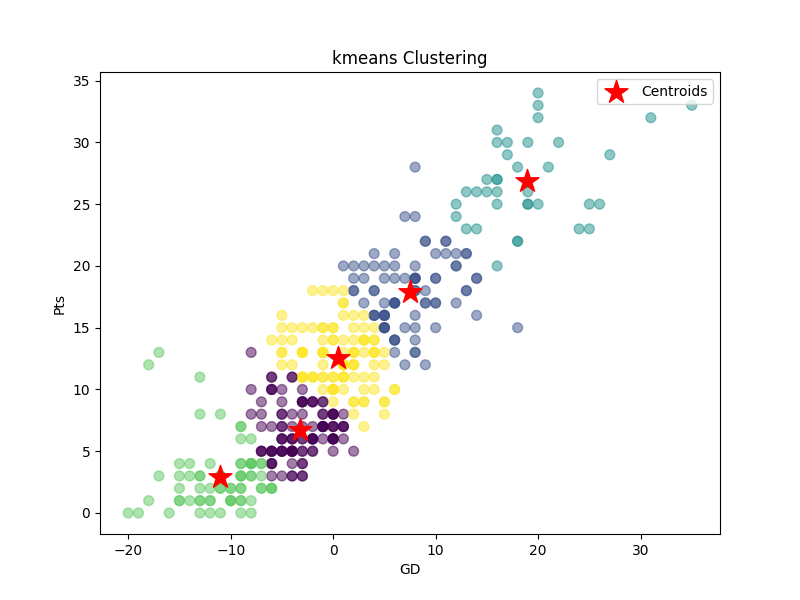
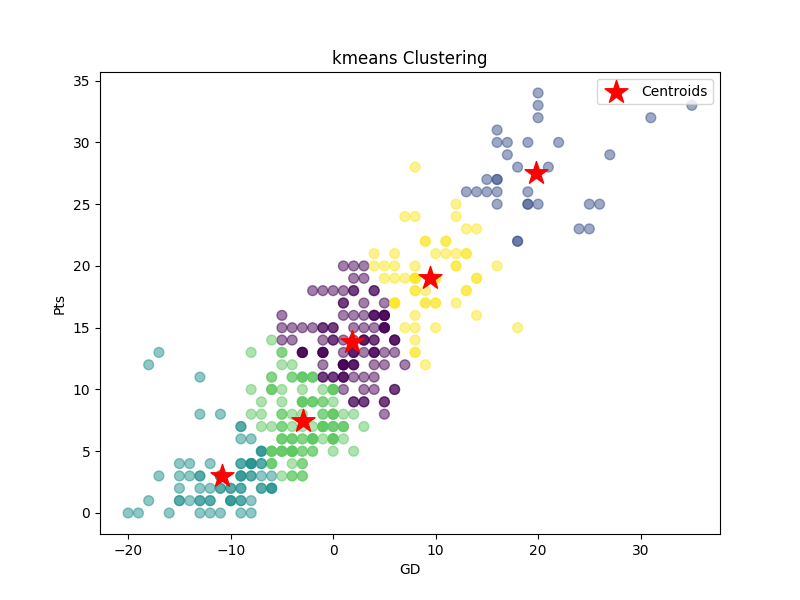
Mean-Shift

diff --git a/Clusters/Cluster.py b/Clusters/Cluster.py
@@ -1,6 +1,6 @@
 import pandas as pd
 import matplotlib.pyplot as plt
-from sklearn.cluster import KMeans, AgglomerativeClustering
+from sklearn.cluster import KMeans, MeanShift, estimate_bandwidth
 
 class Cluster:
 
@@ -16,11 +16,12 @@ class Cluster:
     def fit_model(self, features, clusters:int=3):
         self.X = self.df[features]
         if self.cluster_type == 'kmeans':
-            if self.cluster_type == 'kmean':
-                self.cluster_type = 'kmeans'
             model = KMeans(n_clusters=clusters)
-        elif self.cluster_type == 'agglomerative':
-            model = AgglomerativeClustering(n_clusters=clusters)
+        elif self.cluster_type == 'mean-shift':
+            bandwidth = estimate_bandwidth(self.X, quantile=0.2, n_samples=500)
+            model = MeanShift(bandwidth=bandwidth, bin_seeding=True)
+        else:
+            raise ValueError('Invalid cluster type')
         model.fit(self.X)
         return model
     

diff --git a/lanzador.py b/lanzador.py
@@ -10,3 +10,9 @@ class Lanzador:
         for column in self.column_combinations:
             model = kmean.fit_model(list(column), 5)
             kmean.plot_results(model)
+    
+    def lanzar_mean_shift(self):
+        ms = Cluster('./UEFA_Analisis_CSV/UEFA_Final_Data.csv', 'mean-shift')
+        for column in self.column_combinations:
+            model = ms.fit_model(list(column), 5)
+            ms.plot_results(model)

diff --git a/main.py b/main.py
@@ -3,4 +3,5 @@ from lanzador import Lanzador
 if __name__ == '__main__':
 
     lanzador = Lanzador()
-    lanzador.lanzar_kmeans()
+    #lanzador.lanzar_kmeans()
+    lanzador.lanzar_mean_shift()
